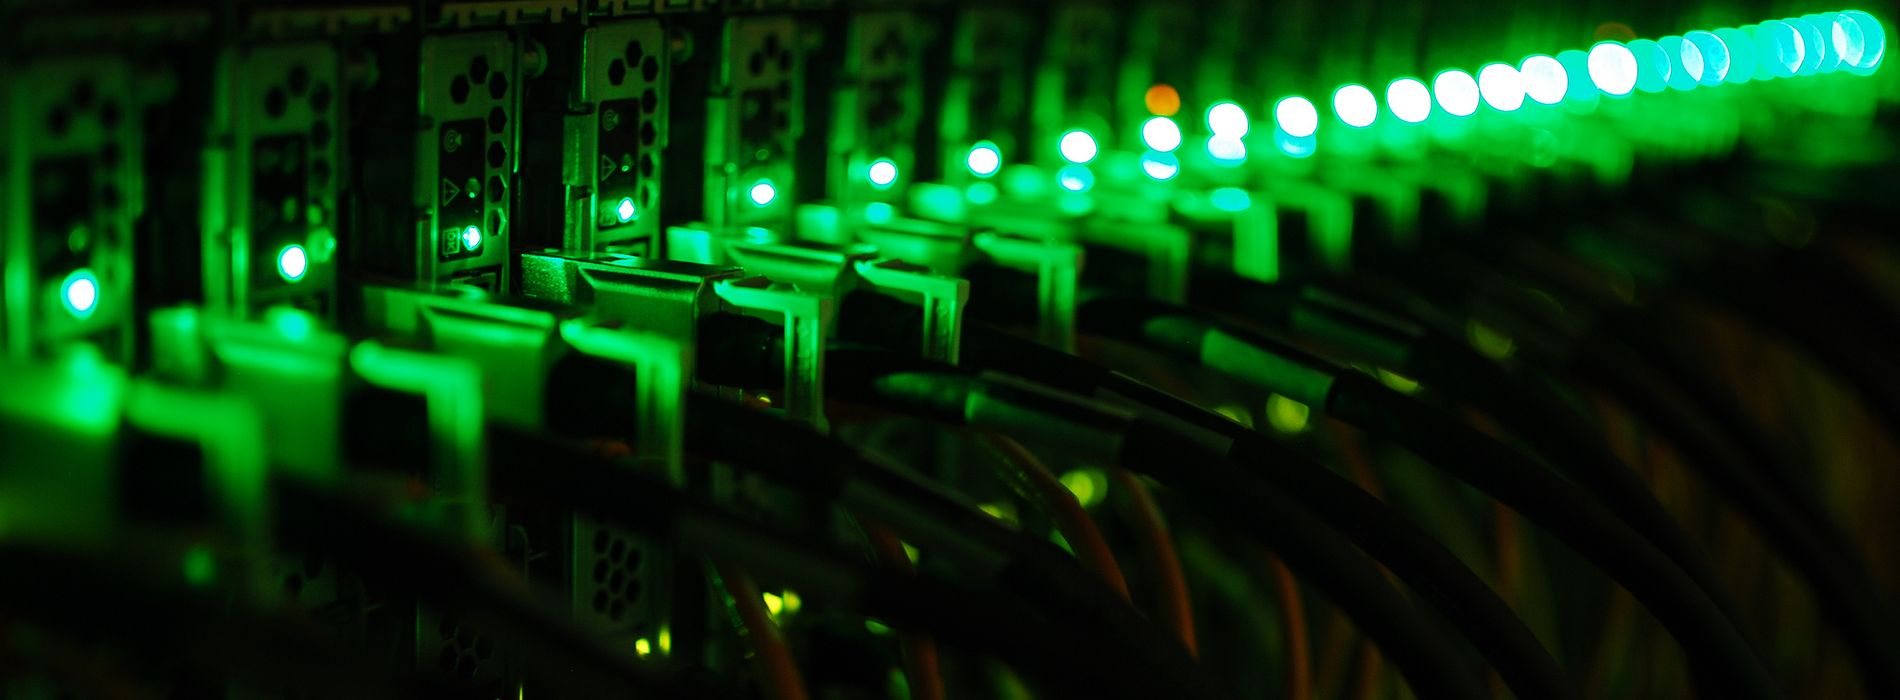
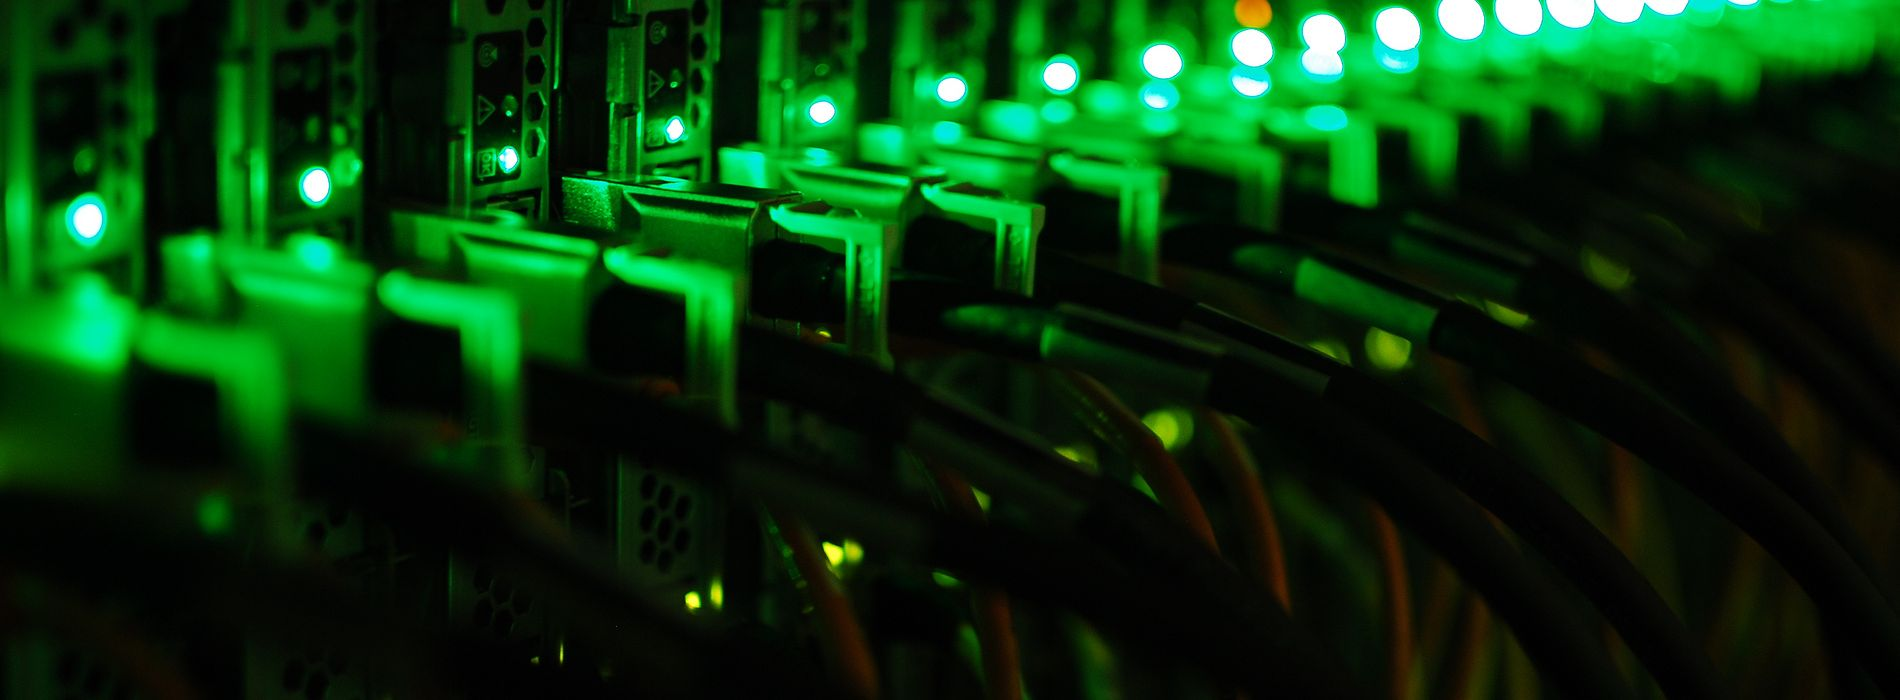
Modify some header images and some content

diff --git a/src/acastaner_mvc6/Controllers/HomeController.cs b/src/acastaner_mvc6/Controllers/HomeController.cs
@@ -27,7 +27,7 @@ namespace acastaner.Controllers
 			ViewBag.Title = "Mes projets";
 			ViewBag.Heading = ViewBag.Title;
 			ViewBag.SubHeading = "Ce qui occupe mes soirées";
-			ViewBag.HeaderImage = "post-bg.jpg";
+			ViewBag.HeaderImage = "projects-bg.jpg";
 			return View();
 		}
 
